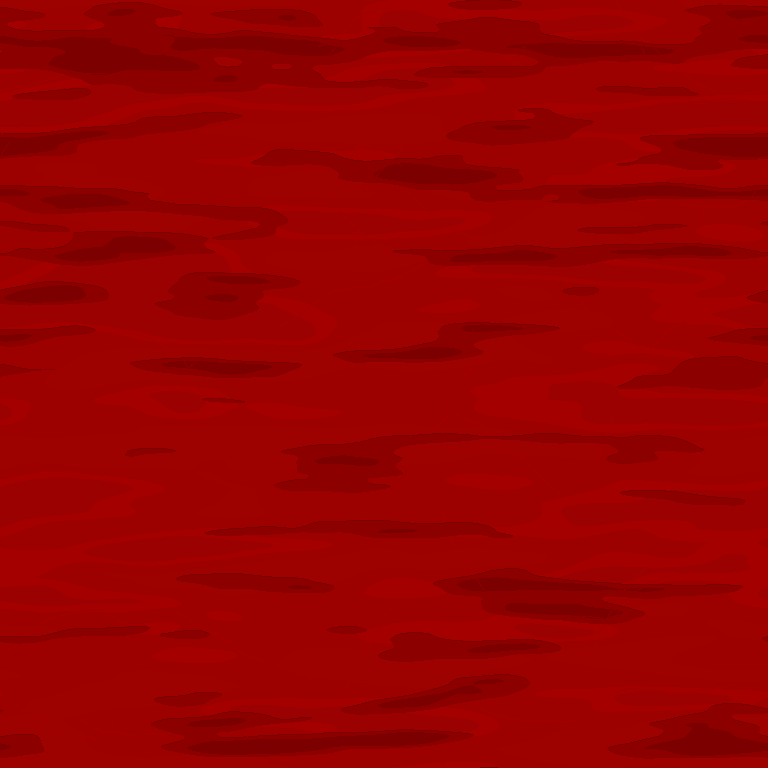
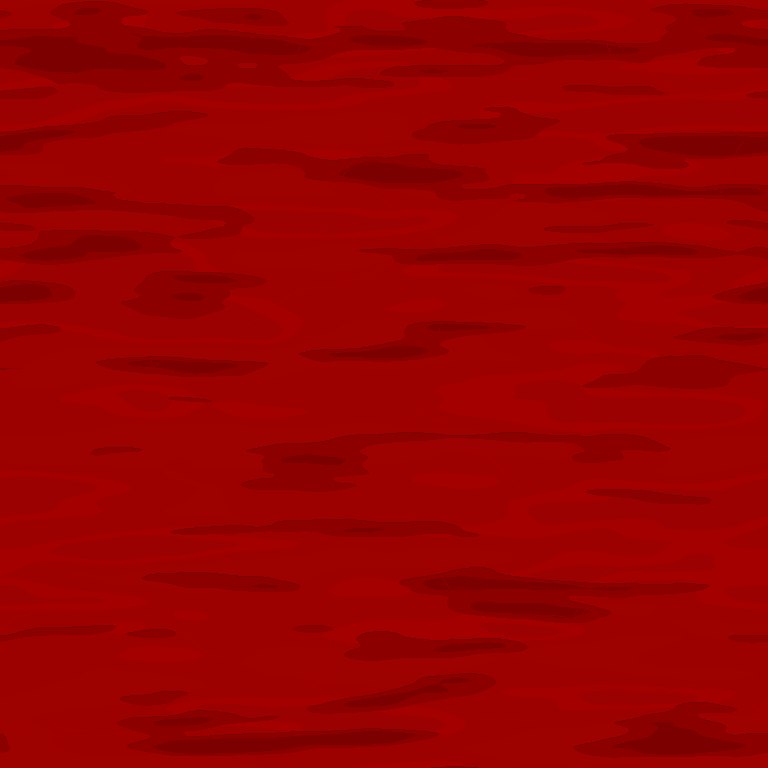
Frostline A2: the ice fill's wrap set on an ordinary row and column
test_kit.test_fills_seamless compares the wrap's row pair with the next one;
the fill tiles exactly, but the drifts' lips made the chosen seam row busier.
The fill is rolled so the wrap falls on a row and a column of ordinary
contrast; the outlet, the fixtures and the terrain manifest are regenerated.

Claude-Session: https://claude.ai/code/session_01UudrmtYkicLNgZeuSjvjrK

diff --git a/scripts/art/kit/fills.py b/scripts/art/kit/fills.py
@@ -609,7 +609,9 @@ def ice(seed: int = 1404, P: int = PERIOD) -> np.ndarray:
     cv[lit] = C('sky_cool', 5)
     cv[crack & ~snowy] = C('water_cool', 2)
     cv[crack & snowy] = C('snow_cool', 3)
-    return cv
+    # the fill tiles exactly; its wrap is set on a row and a column of ordinary contrast, since the drifts'
+    # lips make single rows unequal (test_kit.test_fills_seamless compares one row pair with the next)
+    return np.roll(cv, (-1, -34), (0, 1))
 
 
 PAINTERS = {'lawn': lawn, 'dirt': dirt, 'water': water, 'face_strip': face_strip,
